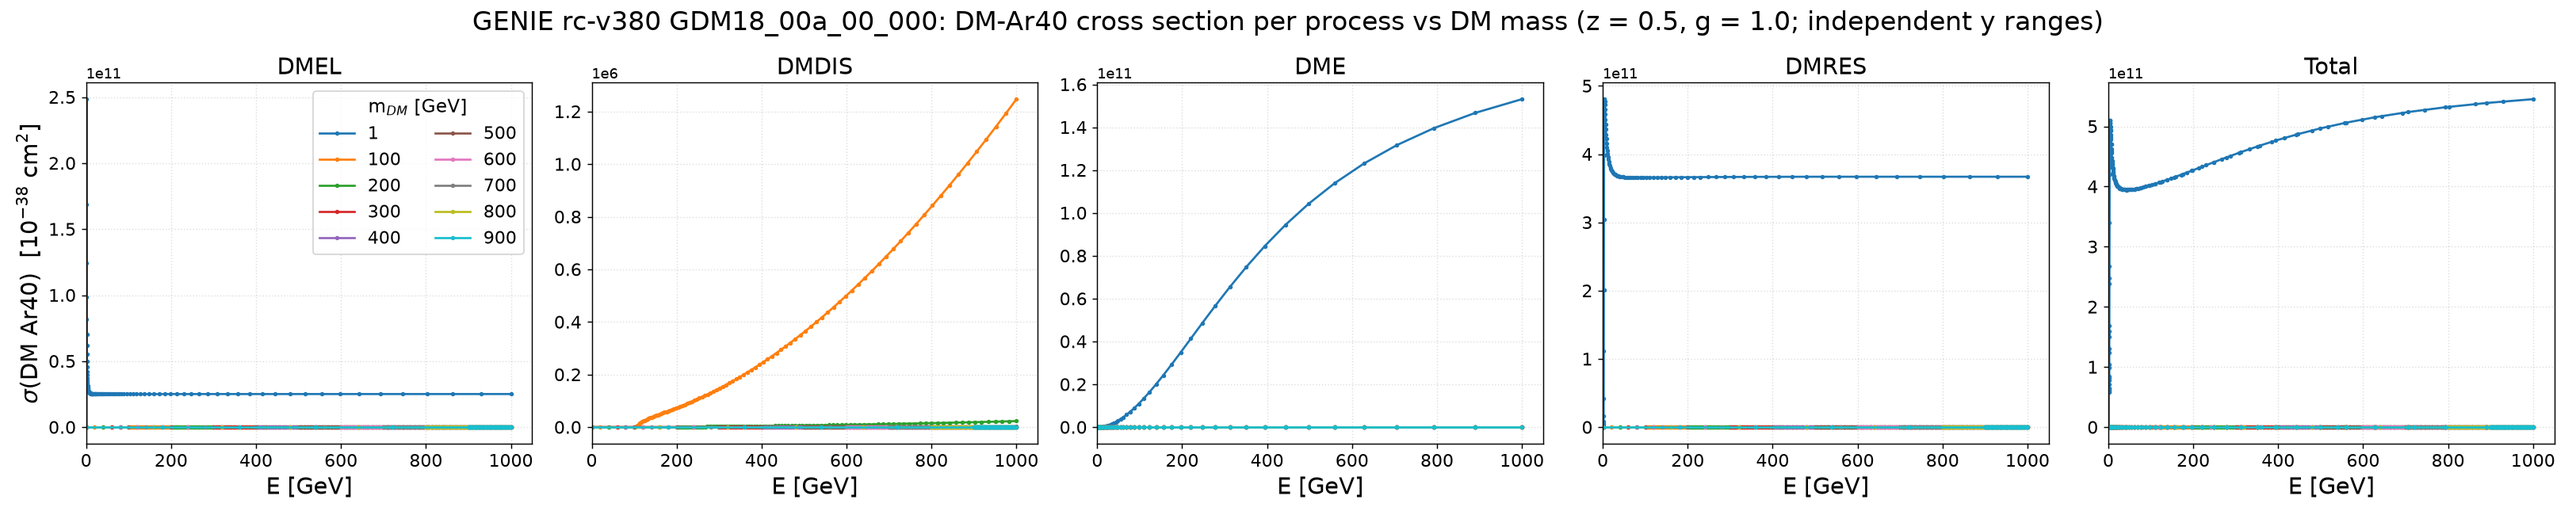
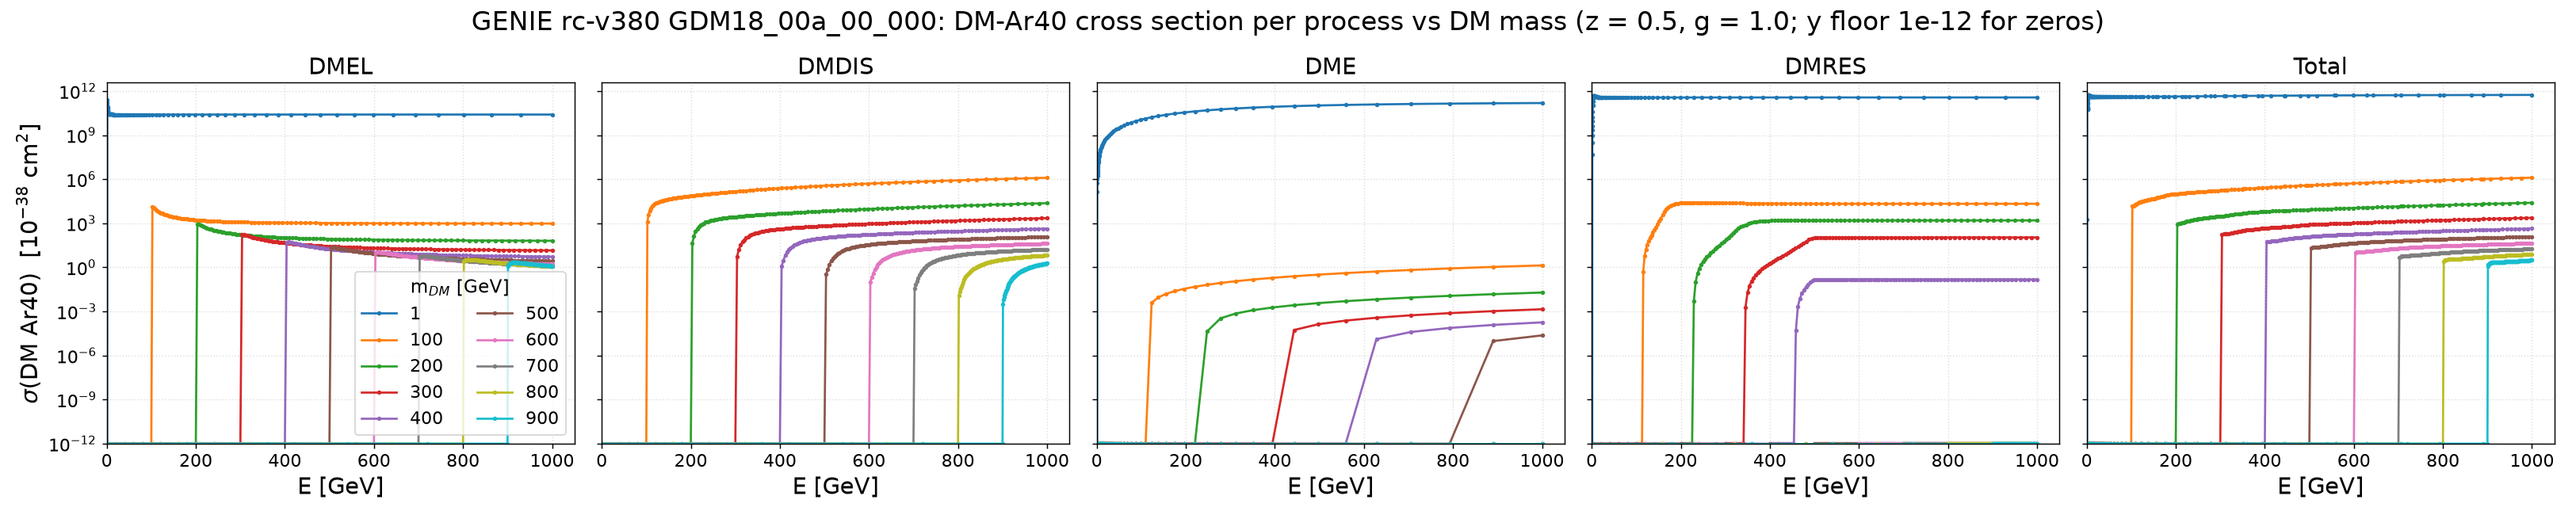
DM_test: spline figures with linear x / log y as the default; _lin and _log variants kept
plot_dm_splines.py: default axes linear x + log y (12 decades of sigma);
--logx --logy -> _log, --linear -> _lin, --logx alone -> _logx.

Claude-Session: https://claude.ai/code/session_016WqdpJxcKP6snVDvs3uuRg

diff --git a/results/template/plot_dm_splines.py b/results/template/plot_dm_splines.py
@@ -10,9 +10,11 @@ XML cross sections are in natural units (GeV^-2); they are shown in 1e-38 cm^2
 
     pixi run python results/template/plot_dm_splines.py --label dm_scan_e1000 --out-dir DM_test
     pixi run python results/template/plot_dm_splines.py --label dm_scan_e1000 --out-dir DM_test --logx --logy
+    pixi run python results/template/plot_dm_splines.py --label dm_scan_e1000 --out-dir DM_test --linear
 
-Axes are linear by default (house style); --logx/--logy opt into log scales and add a
-`_log` suffix to the output stem. With linear y the panels do not share a y range.
+Default axes: linear x, log y (the look chosen for this scan on 2026-09-09; the cross
+sections span 12 decades). --logx --logy gives log-log (stem suffix `_log`), --linear both
+linear (suffix `_lin`, independent y ranges), --logx alone (suffix `_logx`).
 """
 from __future__ import annotations
 
@@ -91,16 +93,22 @@ def main() -> int:
     ap.add_argument("--out-dir", default="DM_test")
     ap.add_argument("--stem", default=None, help="output stem (default dm_splines_<label>[_log])")
     ap.add_argument("--logx", action="store_true", help="log x axis (default linear)")
-    ap.add_argument("--logy", action="store_true", help="log y axis (default linear)")
+    ap.add_argument("--logy", action="store_true", help="log y axis (the default unless --linear)")
+    ap.add_argument("--linear", action="store_true", help="both axes linear (stem suffix _lin)")
     args = ap.parse_args()
-    anylog = args.logx or args.logy
+    if not (args.logx or args.logy or args.linear):
+        args.logy = True                       # default: linear x, log y
+    if args.linear:
+        args.logx = args.logy = False
+    suffix = ("_log" if (args.logx and args.logy) else "_logx" if args.logx
+              else "" if args.logy else "_lin")
     apply_style()
 
     data = collect(args.label, args.tune, args.target)
     if not data:
         sys.stderr.write("no gmkspl_dm runs found for that label/tune/target\n"); return 2
     masses = list(data)
-    stem = args.stem or (f"dm_splines_{args.label}" + ("_log" if anylog else ""))
+    stem = args.stem or f"dm_splines_{args.label}{suffix}"
     out_dir = REPO / args.out_dir; out_dir.mkdir(parents=True, exist_ok=True)
 
     # per (mass, list): summed curve; per mass: total on the union grid

diff --git a/DM_test/DM_test.md b/DM_test/DM_test.md
@@ -355,10 +355,10 @@ m = 1 DMDIS job finishes:
 pixi run python results/template/plot_dm_splines.py --label dm_scan_e1000 --out-dir DM_test
 ```
 - `DM_test/dm_splines_dm_scan_e1000_per_mass.png` — one panel per mass, DMEL/DMDIS/DME/DMRES/Total,
-  **linear axes** (independent y ranges; requested 2026-09-09)
-- `DM_test/dm_splines_dm_scan_e1000_per_process.png` — one panel per process, one line per mass, linear axes
-- `DM_test/dm_splines_dm_scan_e1000_log_per_mass.png`, `…_log_per_process.png` — the same with
-  `--logx --logy` (shared log y, floor 10⁻¹² for zeros)
+  **linear x, log y** (the chosen look, 2026-09-09; shared y, floor 10⁻¹² for zeros)
+- `DM_test/dm_splines_dm_scan_e1000_per_process.png` — one panel per process, one line per mass, same axes
+- `DM_test/dm_splines_dm_scan_e1000_log_*.png` — log-log (`--logx --logy`);
+  `DM_test/dm_splines_dm_scan_e1000_lin_*.png` — both linear (`--linear`, independent y ranges)
 - `DM_test/dm_splines_dm_scan_e1000.txt` — readout: threshold, σ_max, σ at 10/100/1000 GeV per (mass, process)
 
 What the numbers say (σ in 10⁻³⁸ cm², Ar40, z = 0.5, g = 1.0):
